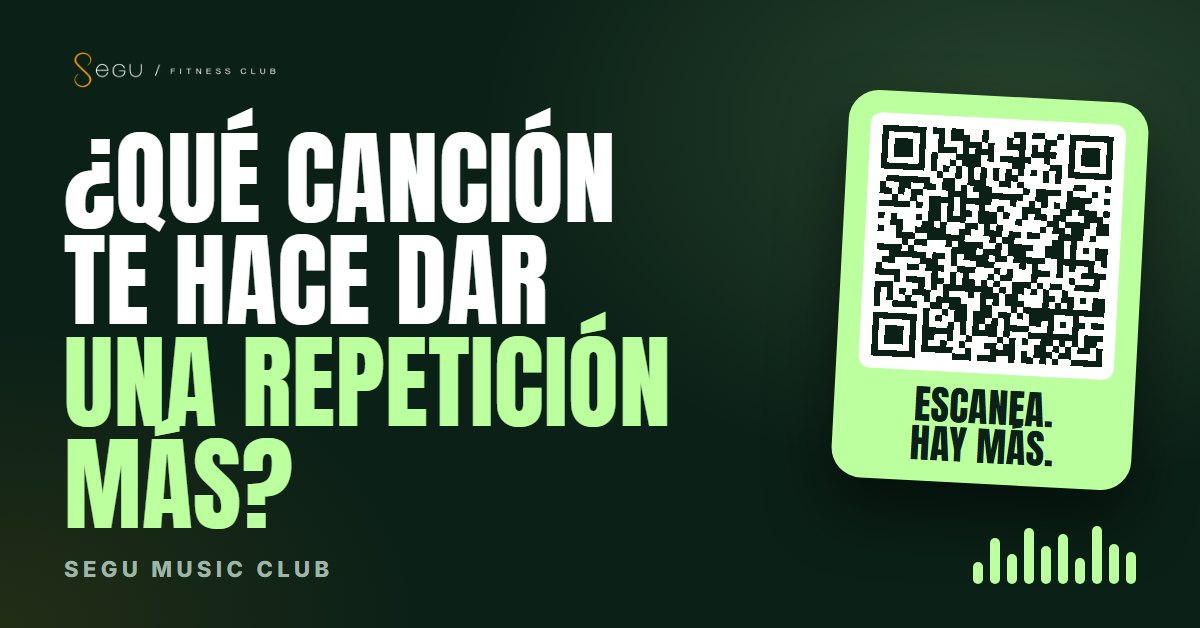
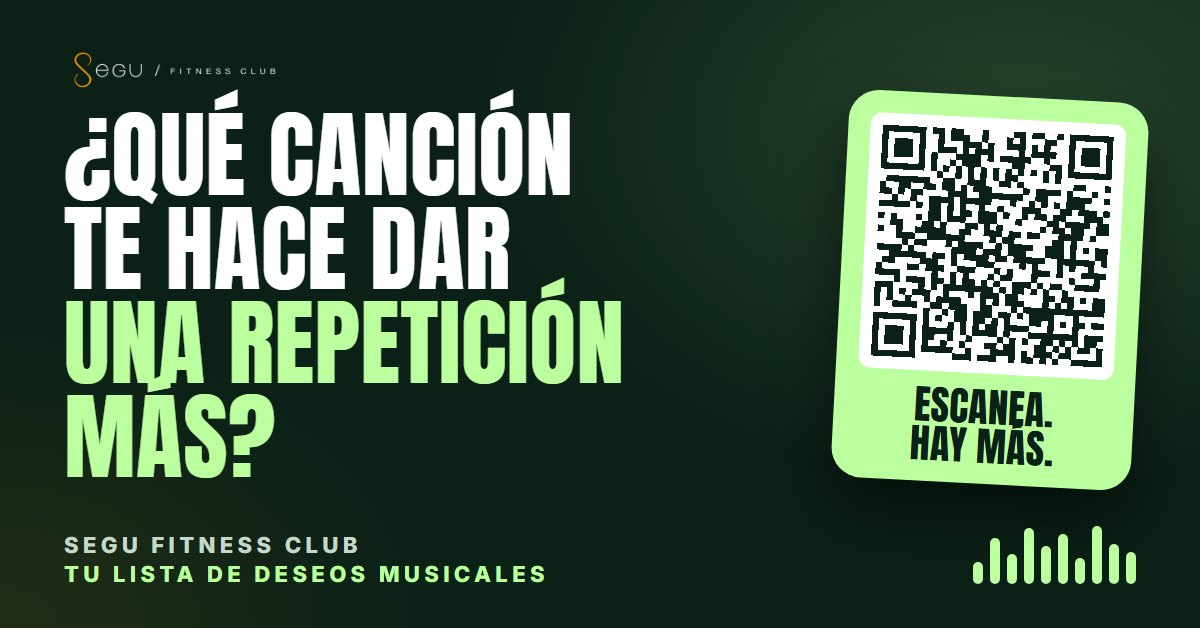
Landing: muro mas transparente, sin enlace secundario; nueva imagen de vista previa

Changed region(s): [[0.0308, 0.1513, 0.555, 0.9379]]

diff --git a/index.html b/index.html
@@ -27,11 +27,11 @@ body{min-height:100vh;min-height:100dvh;overflow-x:hidden}
 
 /* ---------- fondo: video + muro de pantallas ---------- */
 .fondo{position:fixed;inset:0;z-index:0;overflow:hidden;background:var(--bg)}
-.fondo video.bg{position:absolute;inset:0;width:100%;height:100%;object-fit:cover;opacity:.8;filter:saturate(1.15) contrast(1.05)}
-.muro{position:absolute;left:-55%;right:-55%;top:-30%;bottom:-30%;display:flex;gap:14px;transform:rotate(-9deg);opacity:.95}
+.fondo video.bg{position:absolute;inset:0;width:100%;height:100%;object-fit:cover;opacity:.9;filter:saturate(1.15) contrast(1.05)}
+.muro{position:absolute;left:-55%;right:-55%;top:-30%;bottom:-30%;display:flex;gap:14px;transform:rotate(-9deg);opacity:.34}
 .col{flex:1;display:flex;flex-direction:column;gap:14px;will-change:transform}
 .col .set{display:flex;flex-direction:column;gap:14px}
-.tile{display:block;width:100%;aspect-ratio:16/9;object-fit:cover;border-radius:12px;border:1.5px solid rgba(188,255,159,.35);box-shadow:0 18px 40px rgba(0,0,0,.55),0 0 0 1px rgba(0,0,0,.4)}
+.tile{display:block;width:100%;aspect-ratio:16/9;object-fit:cover;border-radius:12px;border:1.5px solid rgba(188,255,159,.22);box-shadow:0 18px 40px rgba(0,0,0,.55),0 0 0 1px rgba(0,0,0,.4)}
 .tile.v{aspect-ratio:16/9}
 .velo{position:absolute;inset:0;background:
   linear-gradient(180deg,rgba(11,32,23,.86) 0%,rgba(11,32,23,.10) 16%,rgba(11,32,23,.18) 62%,rgba(11,32,23,.92) 100%),
@@ -107,7 +107,7 @@ h1{font-family:var(--disp);font-weight:400;text-transform:uppercase;line-height:
         <span class="t"><b>@embajadordelobueno</b></span><span class="go" aria-hidden="true">↗</span>
       </a>
     </div>
-    <div class="punta a d4"><b>La lista de deseos es solo la punta.</b><br>Mientras tanto, ayúdanos a armar la música de la clase.<br><a href="https://segu-deseos-musicales.hermanndan.chatgpt.site" target="_blank" rel="noopener">Pide tu canción →</a></div>
+    <div class="punta a d4"><b>La lista de deseos es solo la punta.</b></div>
   </main>
 </div>
 <script>
